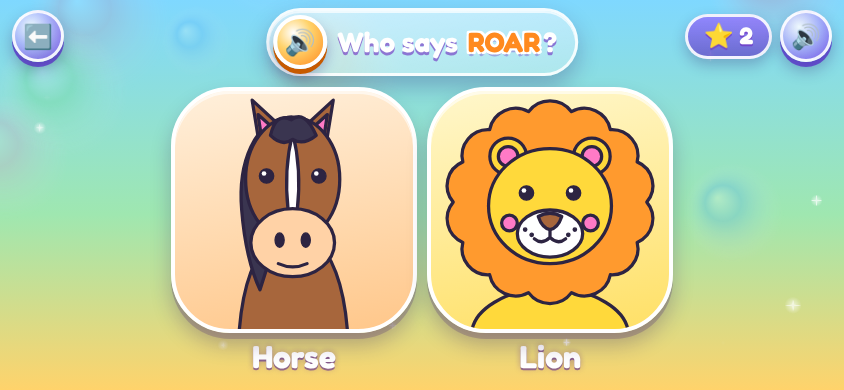
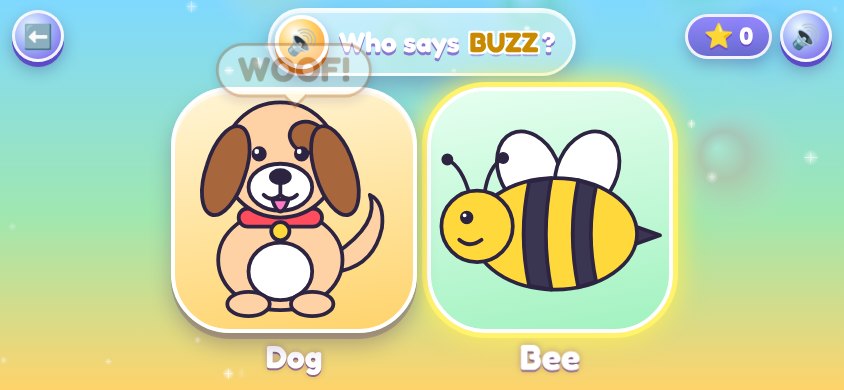
Animal Sounds: try a green frog for the frog
The frog now makes two twangy "gunk" calls from a green frog, also a
public-domain U.S. Geological Survey recording, in place of the bullfrog.

Claude-Session: https://claude.ai/code/session_01YM68RgosYEov9HrXyz6ehP

diff --git a/sw.js b/sw.js
@@ -1,7 +1,7 @@
 // Service worker: caches every game so the whole collection works offline.
 // Run `python3 tools/update-sw.py` after changing files: it refreshes ASSETS and
 // bumps VERSION, so installed copies download the new files.
-const VERSION = 'v5';
+const VERSION = 'v6';
 const CACHE = `play-party-${VERSION}`;
 
 const ASSETS = [
@@ -92,6 +92,7 @@ const ASSETS = [
   './music/js/main.js',
   './music/js/songs.js',
   './music/js/voices.js',
+  './quiz.png',
   './shared/css/kit.css',
   './shared/fonts/fredoka-latin.woff2',
   './shared/js/art.js',

diff --git a/animals/js/sound-data.js b/animals/js/sound-data.js
@@ -9,7 +9,7 @@ export const CLIPS = {
   sheep: { len: 0.78, syl: [[0.06, 0.66]] },
   horse: { len: 1.47, syl: [[0.04, 1.32]] },
   chicken: { len: 1.45, syl: [[0.06, 0.06], [0.34, 0.08], [0.68, 0.08], [0.88, 0.5]] },
-  frog: { len: 2.5, syl: [[0.28, 0.38], [0.78, 0.24], [1.38, 0.62]] },
+  frog: { len: 1.11, syl: [[0.08, 0.18], [0.6, 0.42]] },
   lion: { len: 1.95, syl: [[0.1, 1.74]] },
   owl: { len: 2.2, syl: [[0.08, 0.64], [1.26, 0.88]] },
   bee: { len: 1.8, syl: [[0.0, 1.78]] },

diff --git a/animals/sounds/CREDITS.md b/animals/sounds/CREDITS.md
@@ -14,7 +14,7 @@ Where a file joins two calls (for example "woof … woof"), both come from the s
 | `sheep.mp3` | [Sheep #3](https://bigsoundbank.com/sheep-3-s2345.html) | Joseph Sardin, BigSoundBank.com | CC0 1.0 |
 | `horse.mp3` | [Neighing Horse #2](https://bigsoundbank.com/neighing-horse-2-s0859.html) | Joseph Sardin, BigSoundBank.com | CC0 1.0 |
 | `chicken.mp3` | [Hens Lays](https://bigsoundbank.com/hens-lays-s0978.html) | Joseph Sardin, BigSoundBank.com | CC0 1.0 |
-| `frog.mp3` | [American bullfrog](https://umesc.usgs.gov/terrestrial/amphibians/armi/frog_calls.html), from the USGS frog and toad calls | U.S. Geological Survey, Upper Midwest Environmental Sciences Center | Public domain (U.S. government work) |
+| `frog.mp3` | [Green frog](https://umesc.usgs.gov/terrestrial/amphibians/armi/frog_calls.html), from the USGS frog and toad calls | U.S. Geological Survey, Upper Midwest Environmental Sciences Center | Public domain (U.S. government work) |
 | `lion.mp3` | [Lion raring-sound1TamilNadu178](https://commons.wikimedia.org/wiki/File:Lion_raring-sound1TamilNadu178.ogg), Wikimedia Commons | தகவலுழவன் (Wikimedia Commons user) | Public domain |
 | `owl.mp3` | [Tawny Owl #2](https://bigsoundbank.com/tawny-owl-2-s1764.html) | Joseph Sardin, BigSoundBank.com | CC0 1.0 |
 | `bee.mp3` | [Bumblebee #1](https://bigsoundbank.com/bumblebee-1-s1000.html) | Joseph Sardin, BigSoundBank.com | CC0 1.0 |
